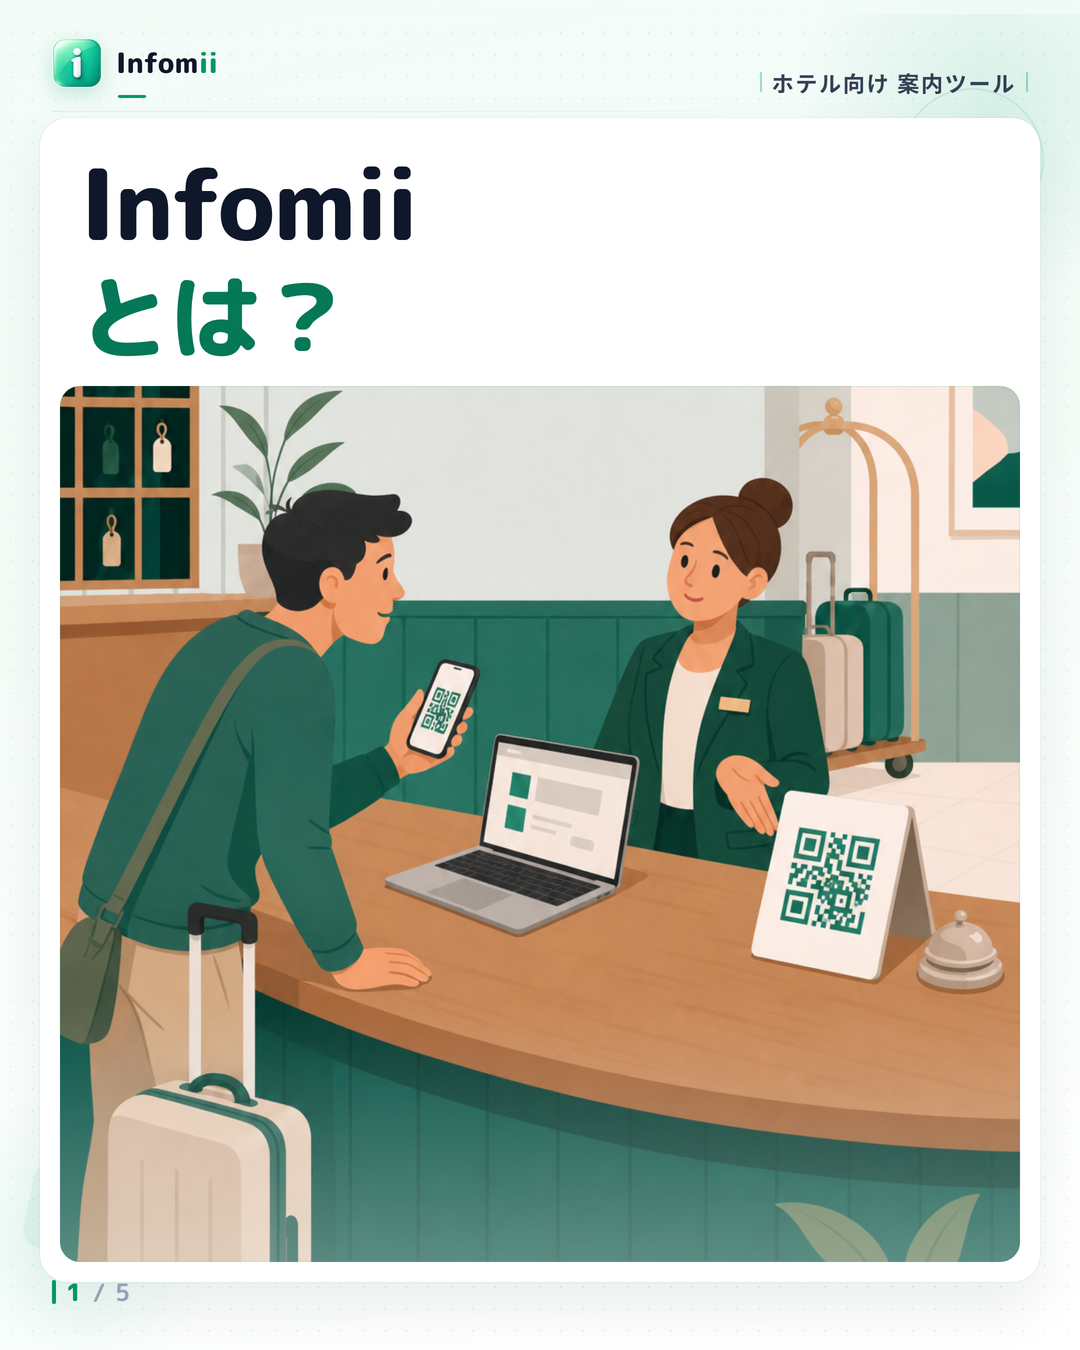
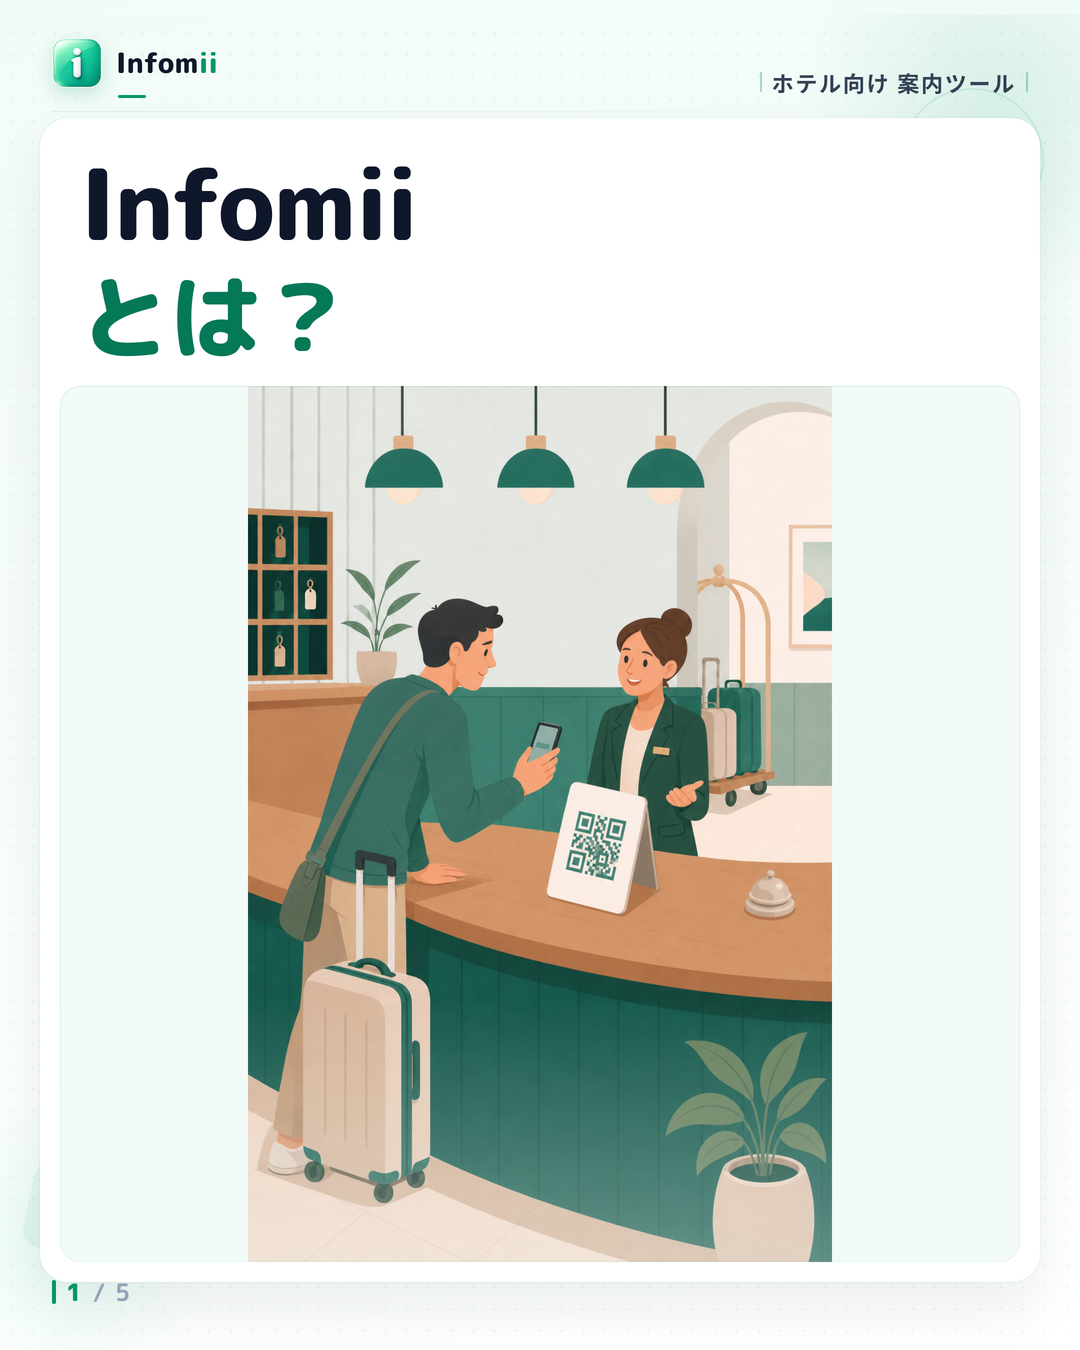
Fix Instagram carousel cover art and prevent illustration cropping.
Replace unrealistic guest-facing PC covers, use contain sizing for hero/art, and re-export all five themes.

diff --git a/docs/instagram/carousels/shared.css b/docs/instagram/carousels/shared.css
@@ -595,7 +595,11 @@ body {
   margin: 0 20px 20px;
   border-radius: 20px;
   overflow: hidden;
-  background: var(--hero-image, none) center center / cover no-repeat;
+  background-color: var(--mint-wash);
+  background-image: var(--hero-image, none);
+  background-repeat: no-repeat;
+  background-position: center center;
+  background-size: contain;
   box-shadow: inset 0 0 0 1px rgba(5, 150, 105, 0.1);
 }
 
@@ -632,7 +636,11 @@ body {
   border-radius: 0;
   overflow: hidden;
   border: none;
-  background: var(--surface) var(--art-image, none) center center / cover no-repeat;
+  background-color: var(--mint-wash);
+  background-image: var(--art-image, none);
+  background-repeat: no-repeat;
+  background-position: center center;
+  background-size: contain;
   box-shadow: none;
 }
 

diff --git a/docs/instagram/design-prompts.md b/docs/instagram/design-prompts.md
@@ -322,6 +322,8 @@ Conveys business SaaS: front desk team updates guide from PC, guests read on pho
 ```
 CRITICAL — physically correct hardware (violations = reject & regenerate):
 - UI appears ONLY on the inner front glass of an open laptop, or monitor screen facing the user/camera.
+- NEVER show a laptop or monitor screen facing the guest/customer. PC screens face staff only; guest sees plain lid or no PC.
+- At front desk with guest + staff: prefer QR stand / smartphone only — omit laptop unless staff is seated editing (screen toward staff/camera).
 - Monitor rear/back housing: plain matte black or white plastic, NO icons, NO UI, NO green blocks.
 - Laptop outer lid/back cover: plain solid gray or silver, completely blank — NO UI bleed-through.
 - NEVER put interface on the back of a monitor, laptop lid, or wrong surface.
@@ -331,6 +333,7 @@ CRITICAL — physically correct hardware (violations = reject & regenerate):
   One seated staff, 3/4 view from guest side, open laptop on desk, inner screen angled ~45° toward camera,
   plain lid back not visible or blank, QR stand + bell on desk, emerald SaaS blocks on inner screen only.
 - Avoid: two staff behind desk with monitor/laptop backs toward camera; over-shoulder from behind hardware.
+- Composition: leave ~10–12% empty margin at top (pendant lights, speech bubbles) so exports with `background-size: contain` do not feel cropped.
 ```
 
 生成後チェック（必須）: モニター背面・ノートPCのふたにUIがないか目視確認。1枚でもあれば即再生成。
@@ -345,7 +348,7 @@ CRITICAL — physically correct hardware (violations = reject & regenerate):
 | 紙混乱 vs スマホ解決（分割） | `inquiry-not-decreasing-slide03.png` |
 | 廊下 QR 設置 | `hotel-qr-guide-slide04.png` + HTML `art--fit` |
 
-QR・廊下イラストは CSS `.art--fit`（`background-size: contain`）で切れを防ぐ。
+QR・廊下イラストは HTML/CSS で `background-size: contain` + mint wash 背景（`shared.css` の `.hero` / `.art` 既定）で上部切れを防ぐ。
 
 ### サイズ・共通ネガティブ
 
